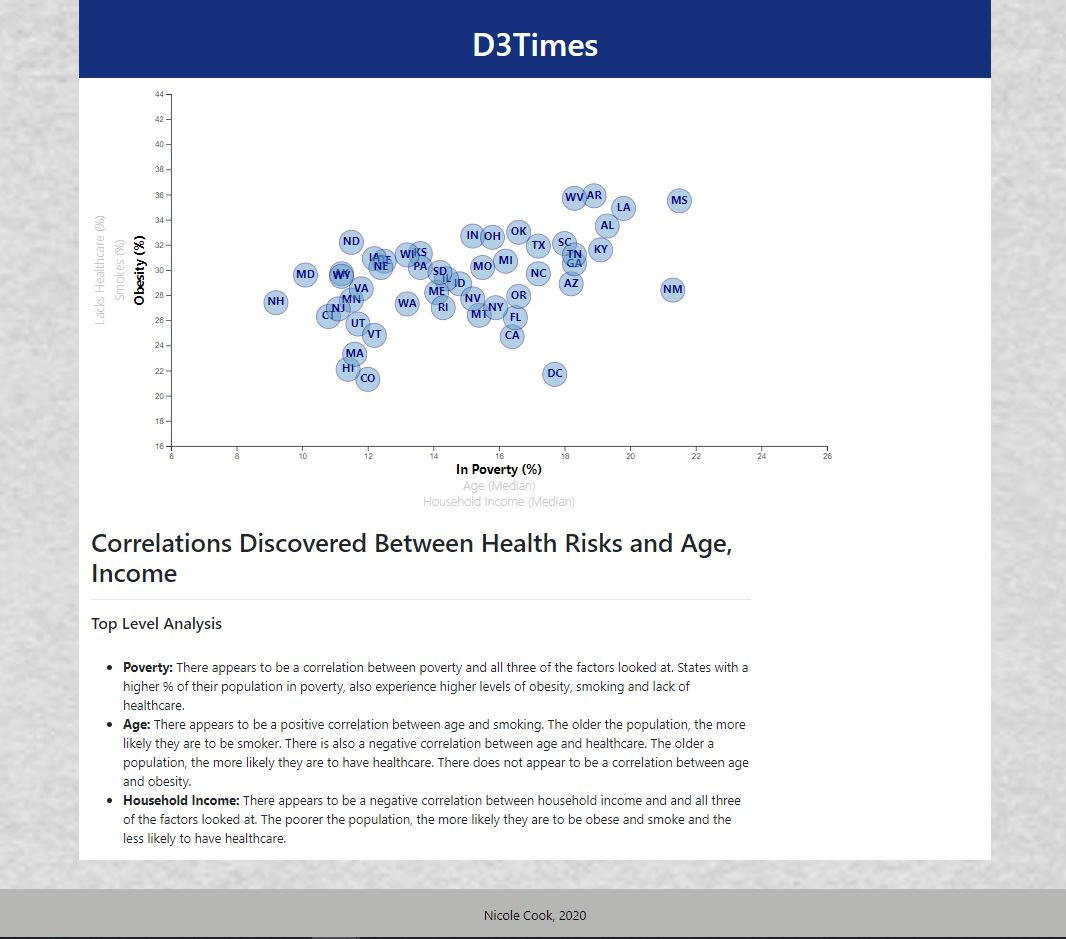
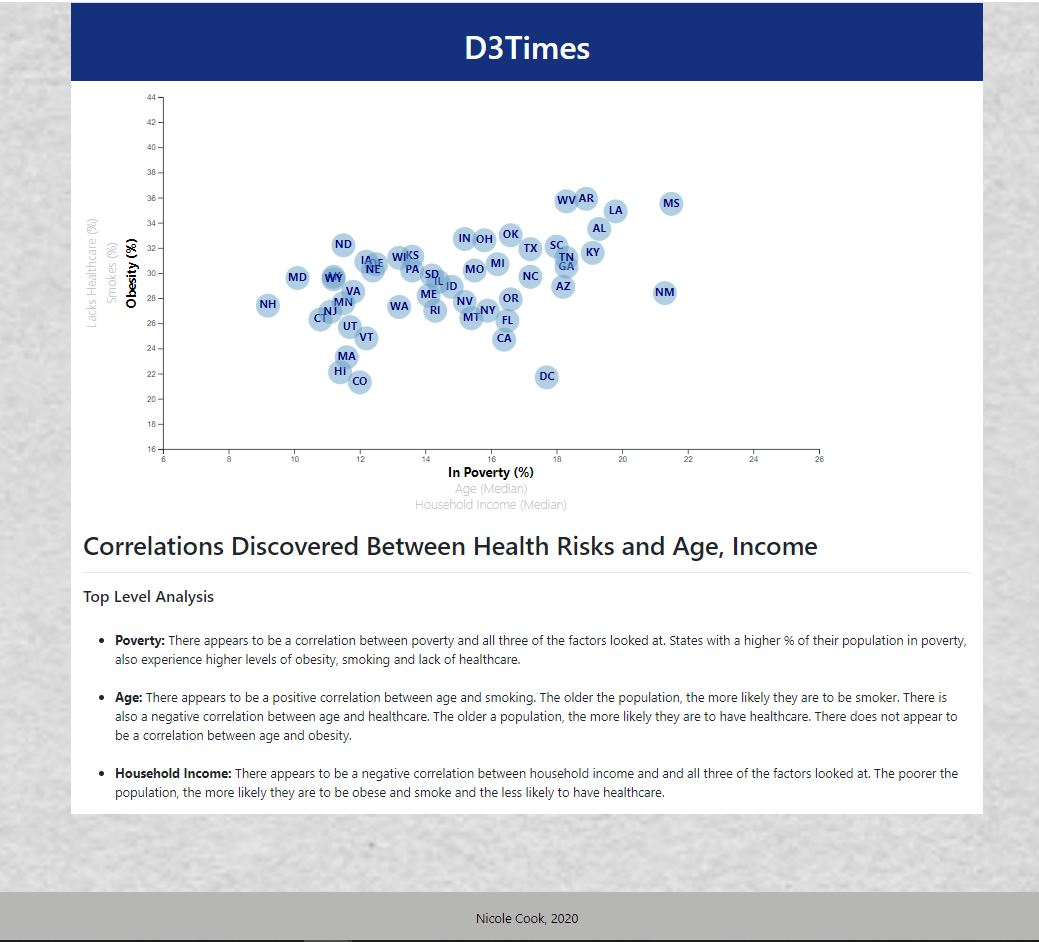
update to readme

diff --git a/index.html b/index.html
@@ -22,14 +22,14 @@ padding-bottom: 50px;
       </div>
     </div>
     <div class="row">
-      <div class="col-xs-12  col-md-9">
+      <div class="col-xs-12 col-md-12">
         <div id="scatter">
           <!-- We append our chart here. -->
         </div>
       </div>
     </div>
-    <div class="row" style="margin-bottom: 30px">
-      <div class="col-xs-12  col-md-9">
+    <div class="row">
+      <div class="col-xs-12 col-md-12">
         <div class="article">
           <h2 >Correlations Discovered Between Health Risks and Age, Income</h2>
           <hr>
@@ -41,13 +41,13 @@ padding-bottom: 50px;
                 looked at. States with a higher % of their population in poverty, also experience higher levels of obesity,
                 smoking and lack of healthcare.
               </li>
-                
+              <br /> 
               <li>
                 <strong>Age:</strong> There appears to be a positive correlation between age and smoking. The older the
                 population, the more likely they are to be smoker. There is also a negative correlation between age and healthcare.
                 The older a population, the more likely they are to have healthcare. There does not appear to be a correlation between age and obesity. 
               </li>
-
+              <br />
               <li>
                 <strong>Household Income:</strong> There appears to be a negative correlation between household income and and all three of the factors
                 looked at. The poorer the population, the more likely they are to be obese and smoke and the less likely to have healthcare.

diff --git a/assets/js/app.js b/assets/js/app.js
@@ -207,7 +207,7 @@ function renderYAxes(newYScale, yAxis) {
     .attr("r", 15)
     .attr("fill", "#659EC7")
     .attr("opacity", ".5")
-    .attr("stroke", "darkblue");
+    
 
     console.log(circlesGroup)
   

diff --git a/README.md b/README.md
@@ -4,7 +4,7 @@
 
 ## Before you Begin
 
-- You will need to use python -m http.server to run the visualization. This will host the page at localhost:8000 in your web browser.
+- Webpage can be found here: [D3 Times](https://nicole1701.github.io/D3-challenge/)
 - The data set included with the assignment is based on 2014 ACS 1-year estimates and includes data on rates of income, obesity, poverty, etc. by state: [Data Set](https://data.census.gov/cedsci/)
 
 ## Top Level Analysis
